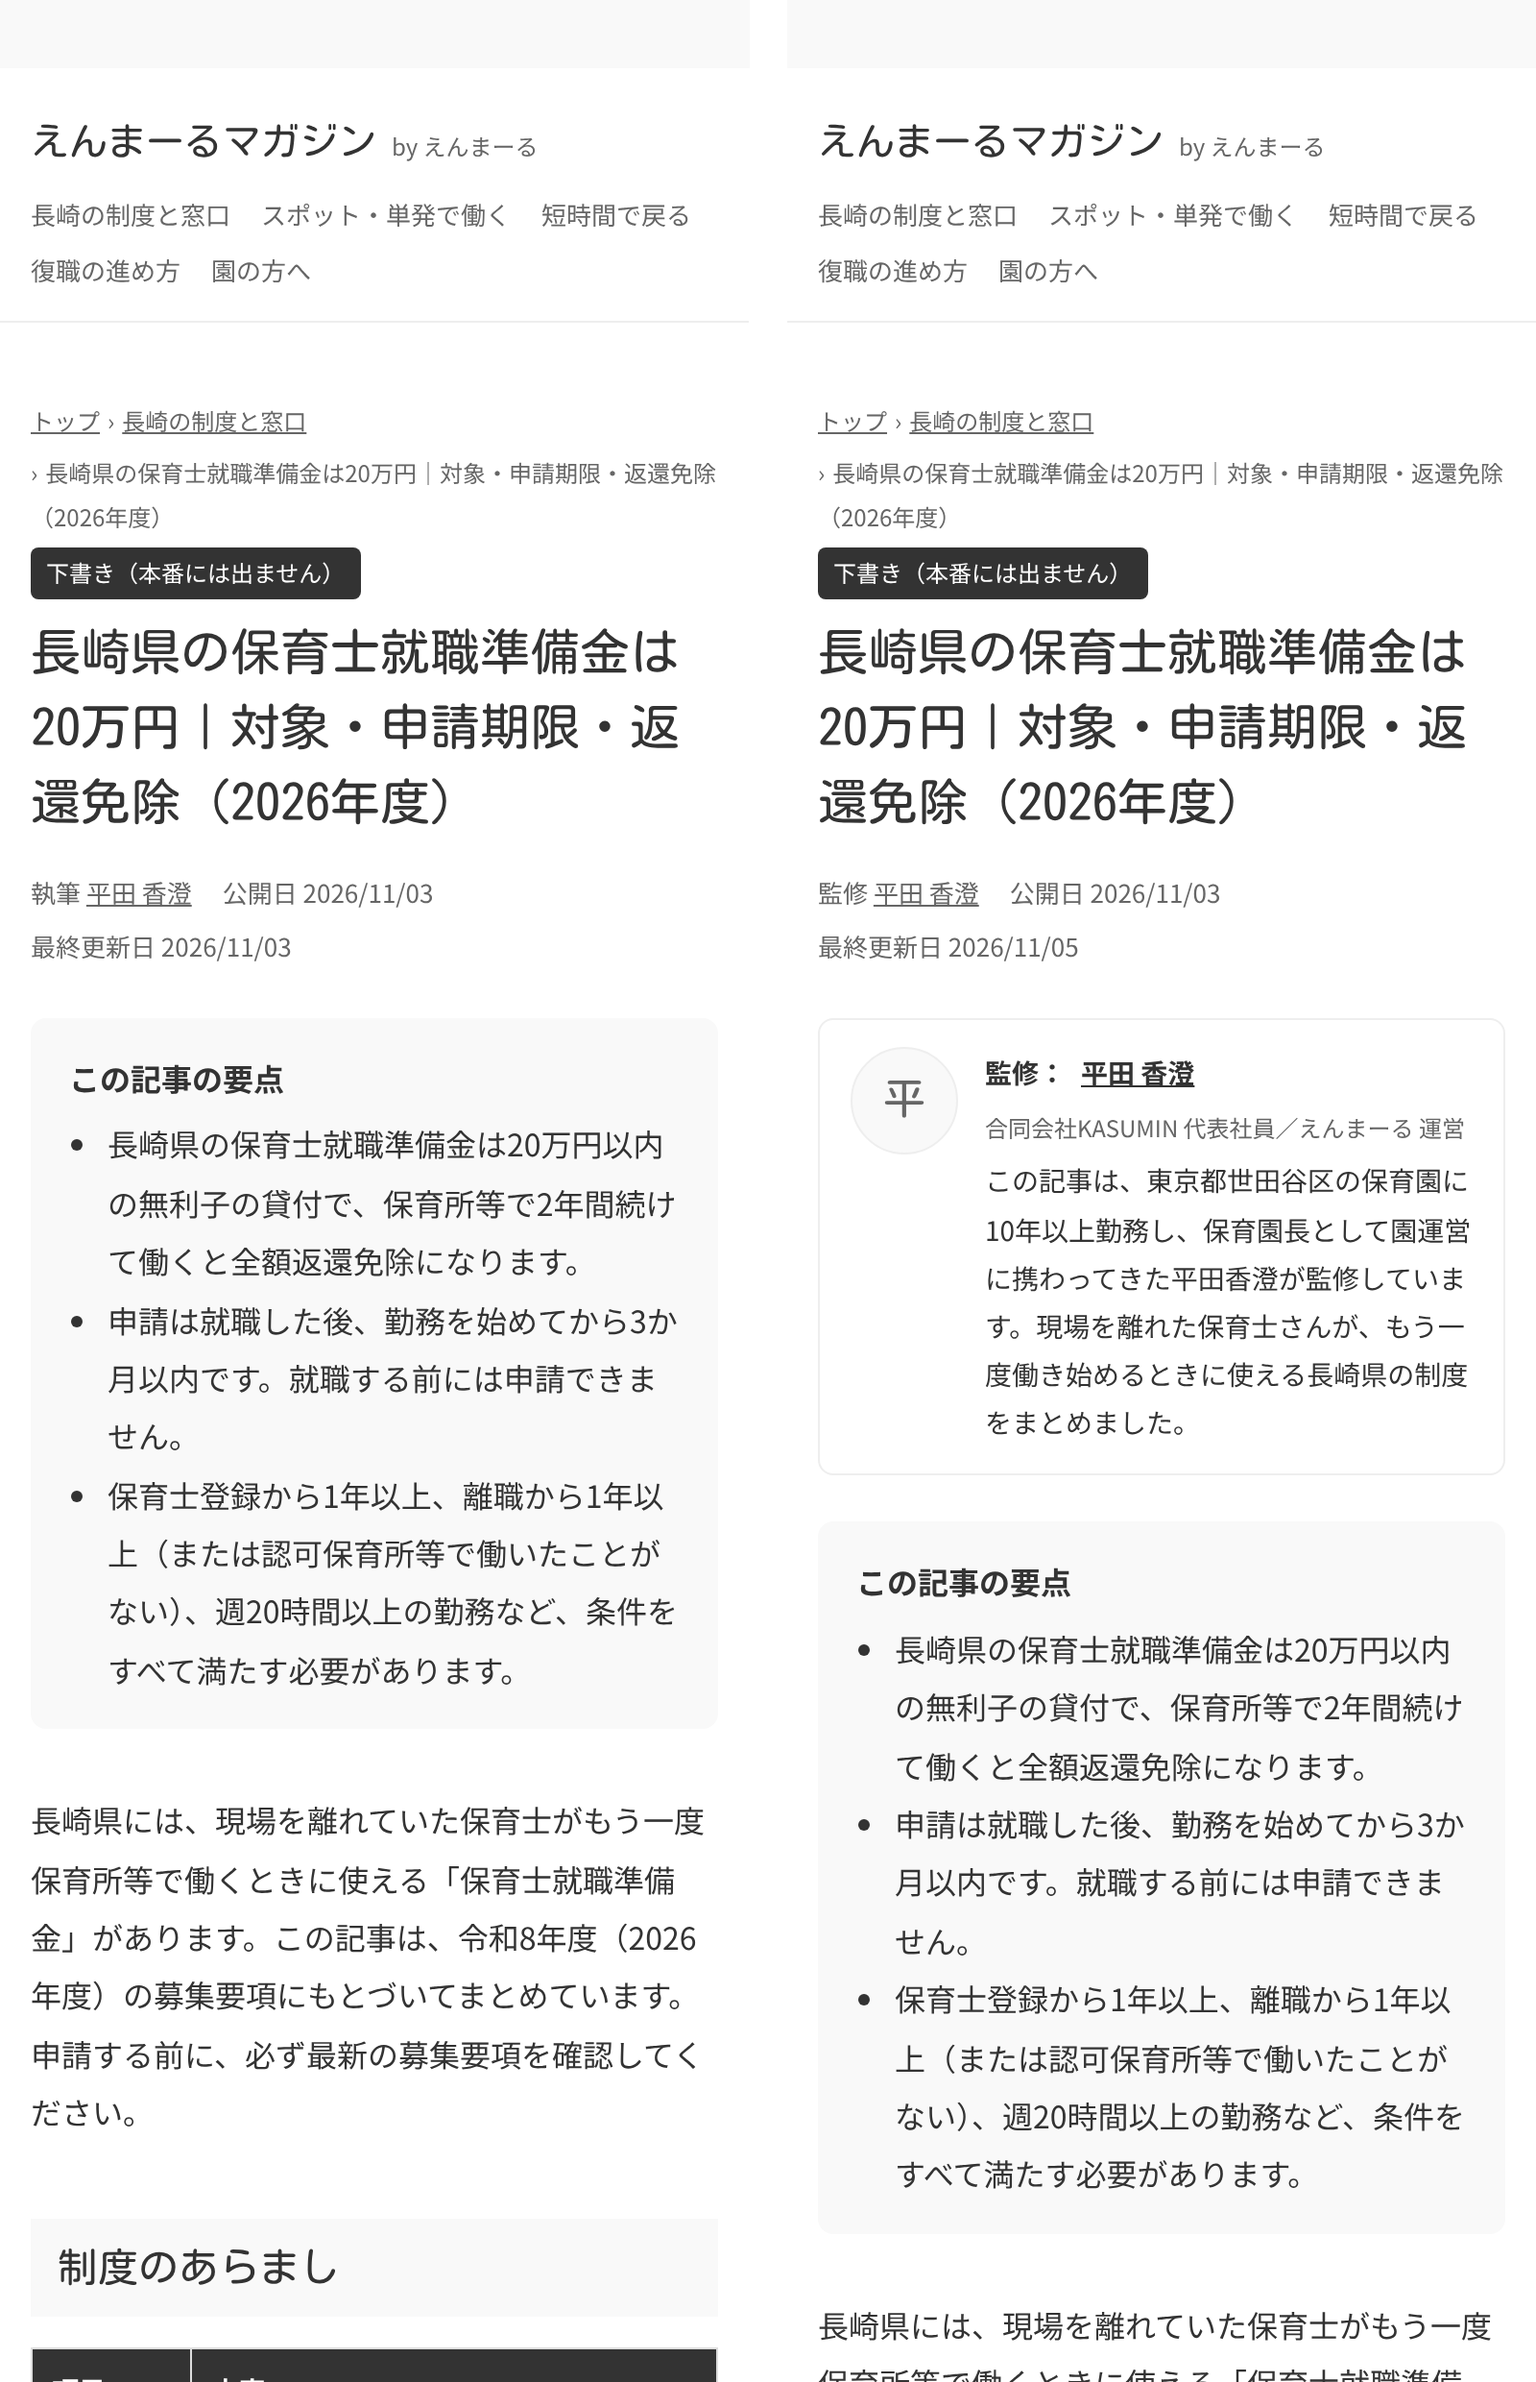
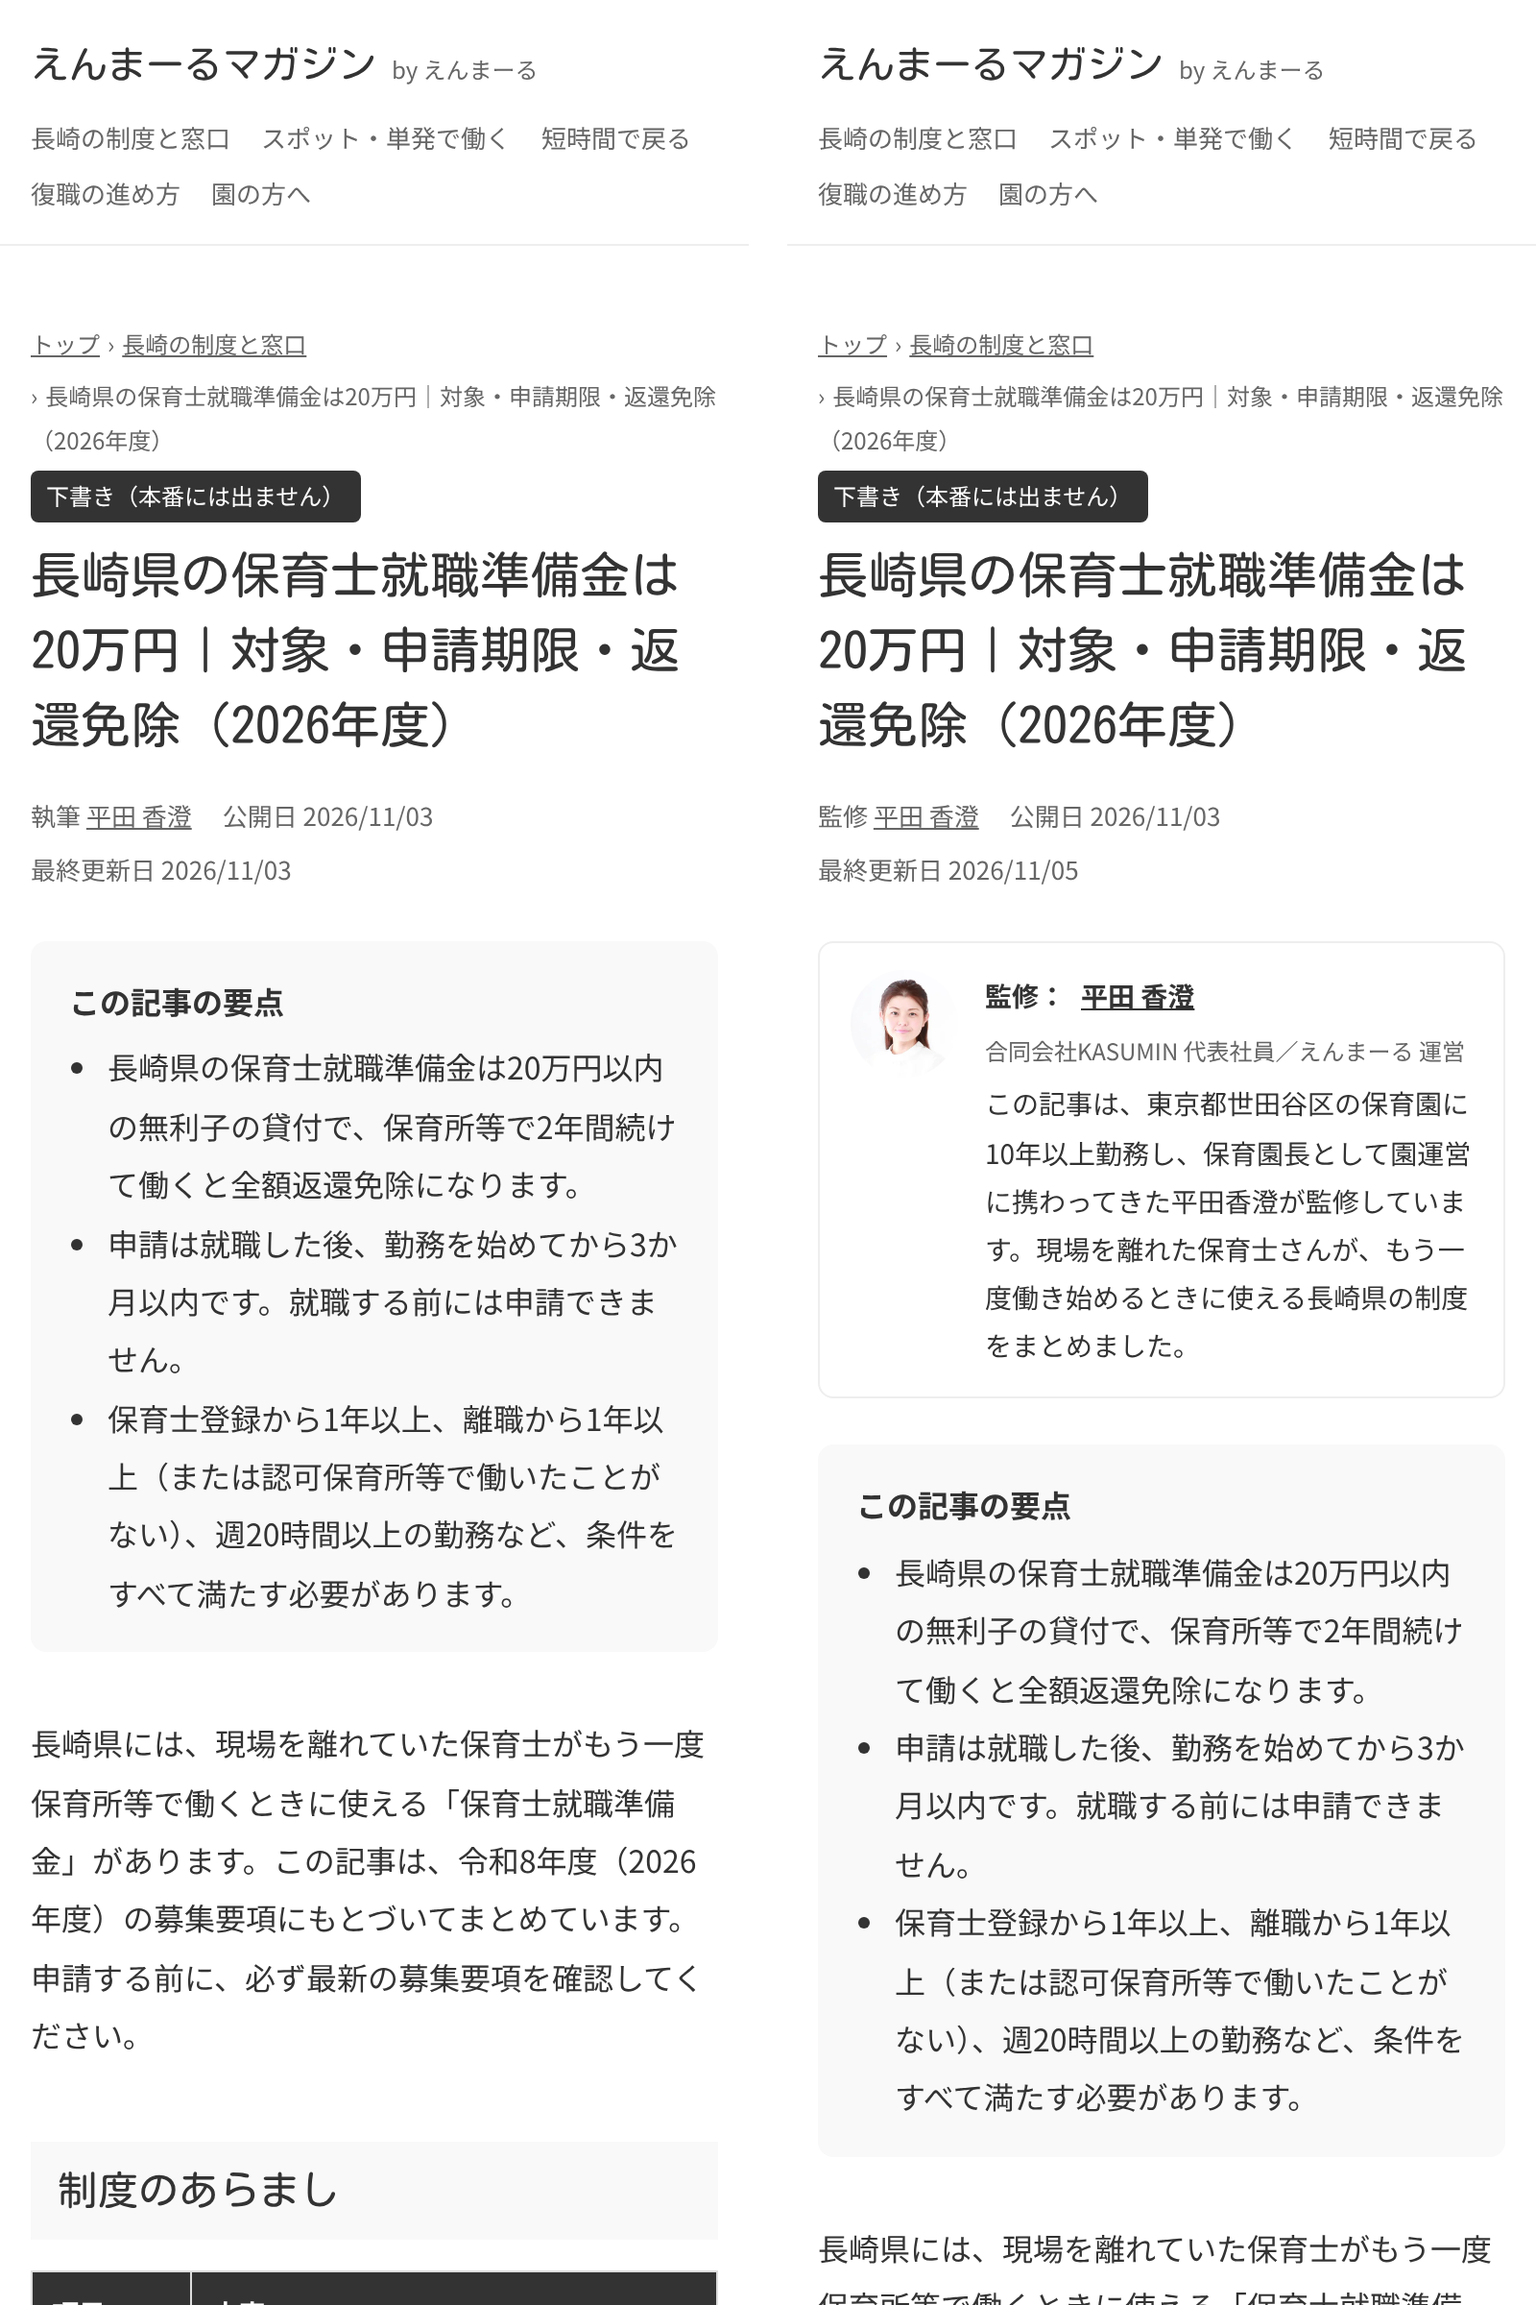
監修者の顔写真を追加（HP のメンバー紹介と同じ写真）し、比較画像を更新
Claude-Session: https://claude.ai/code/session_01AX8AoSXs6PgAkqLqAa1ECF

diff --git a/docs/media/261105_FB反映_BeforeAfter.md b/docs/media/261105_FB反映_BeforeAfter.md
@@ -14,7 +14,7 @@
 | 要点・よくある質問を含めた文字数 | 1,634字 | 3,170字 |
 | h2 の数 | 6 | 8（「返還が必要になる場合」「働く園を探すところから始めるなら」を追加） |
 | 内部リンク | 0本 | 5本（保いっぷ、全体像、相談会、時給、扶養内） |
-| 監修者の表示 | 本文の下に「執筆 平田 香澄」と末尾の小さな著者欄だけ | 冒頭に監修者の紹介（顔写真の場所・経歴の一文）、末尾に「監修者プロフィール」（顔写真・肩書き・経歴） |
+| 監修者の表示 | 本文の下に「執筆 平田 香澄」と末尾の小さな著者欄だけ | 冒頭に監修者の紹介（顔写真・経歴の一文）、末尾に「監修者プロフィール」（顔写真・肩書き・経歴）。顔写真は HP のメンバー紹介と同じ写真 |
 
 ### h2 ごとの文字数
 

diff --git a/media/content/authors/hirata-kasumi.md b/media/content/authors/hirata-kasumi.md
@@ -3,7 +3,7 @@ slug: "hirata-kasumi"
 name: "平田 香澄"
 role: "合同会社KASUMIN 代表社員／えんまーる 運営"
 shortBio: "東京都世田谷区の保育園に10年以上勤務し、保育園長として園運営に従事。2024年に保育アドバイザーとして独立し、合同会社KASUMINで保育士の復職支援「えんまーる」を運営。"
-# image: "/images/authors/hirata-kasumi.jpg"   # 顔写真【要確認】
+image: "/images/authors/hirata-kasumi.jpg"   # HP のメンバー紹介と同じ写真（site/public/assets/design/... を正方形に切り抜き）
 sameAs: []
 ---
 
